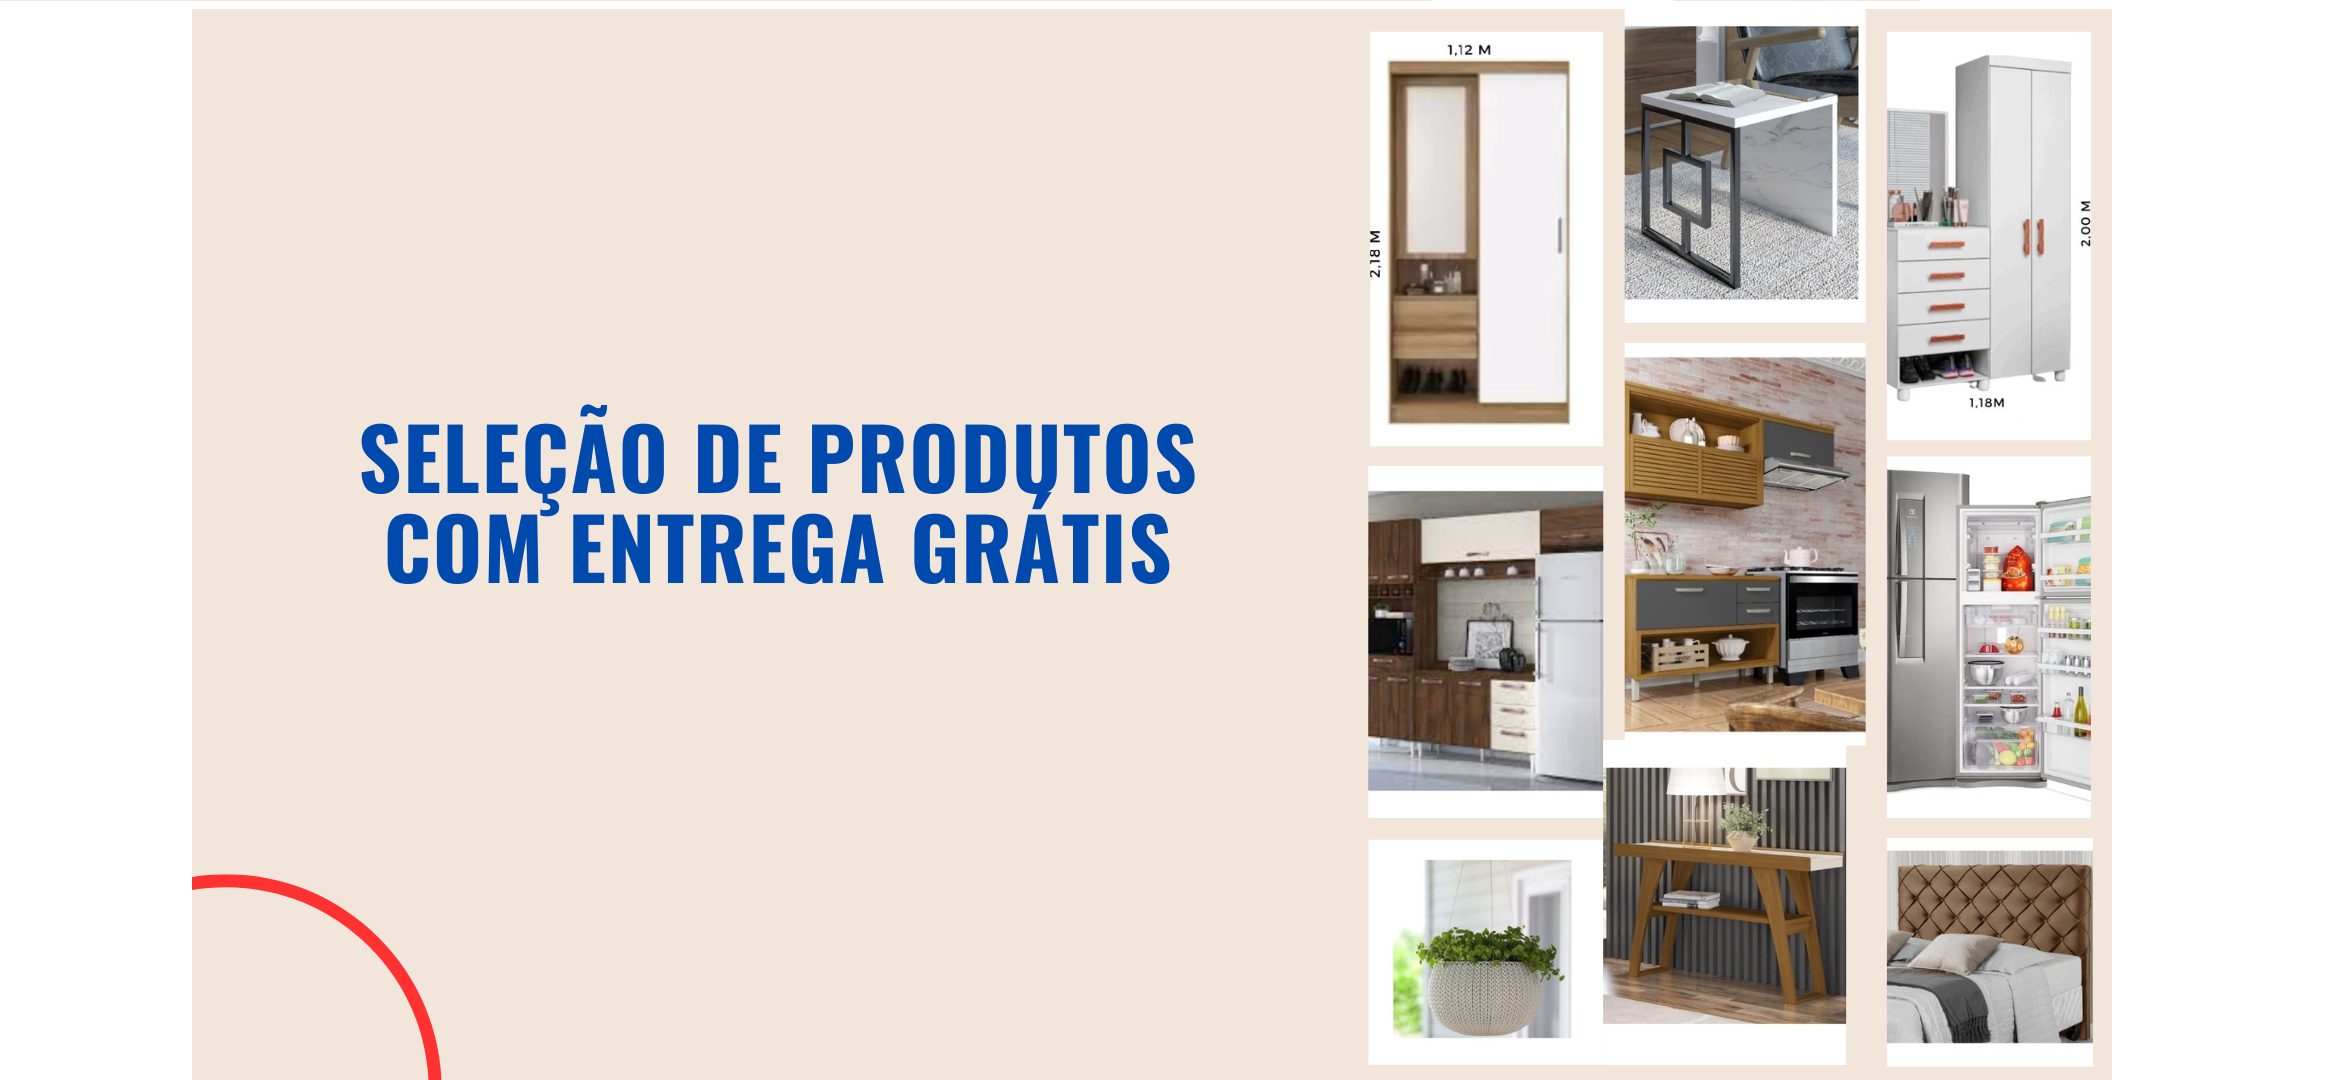
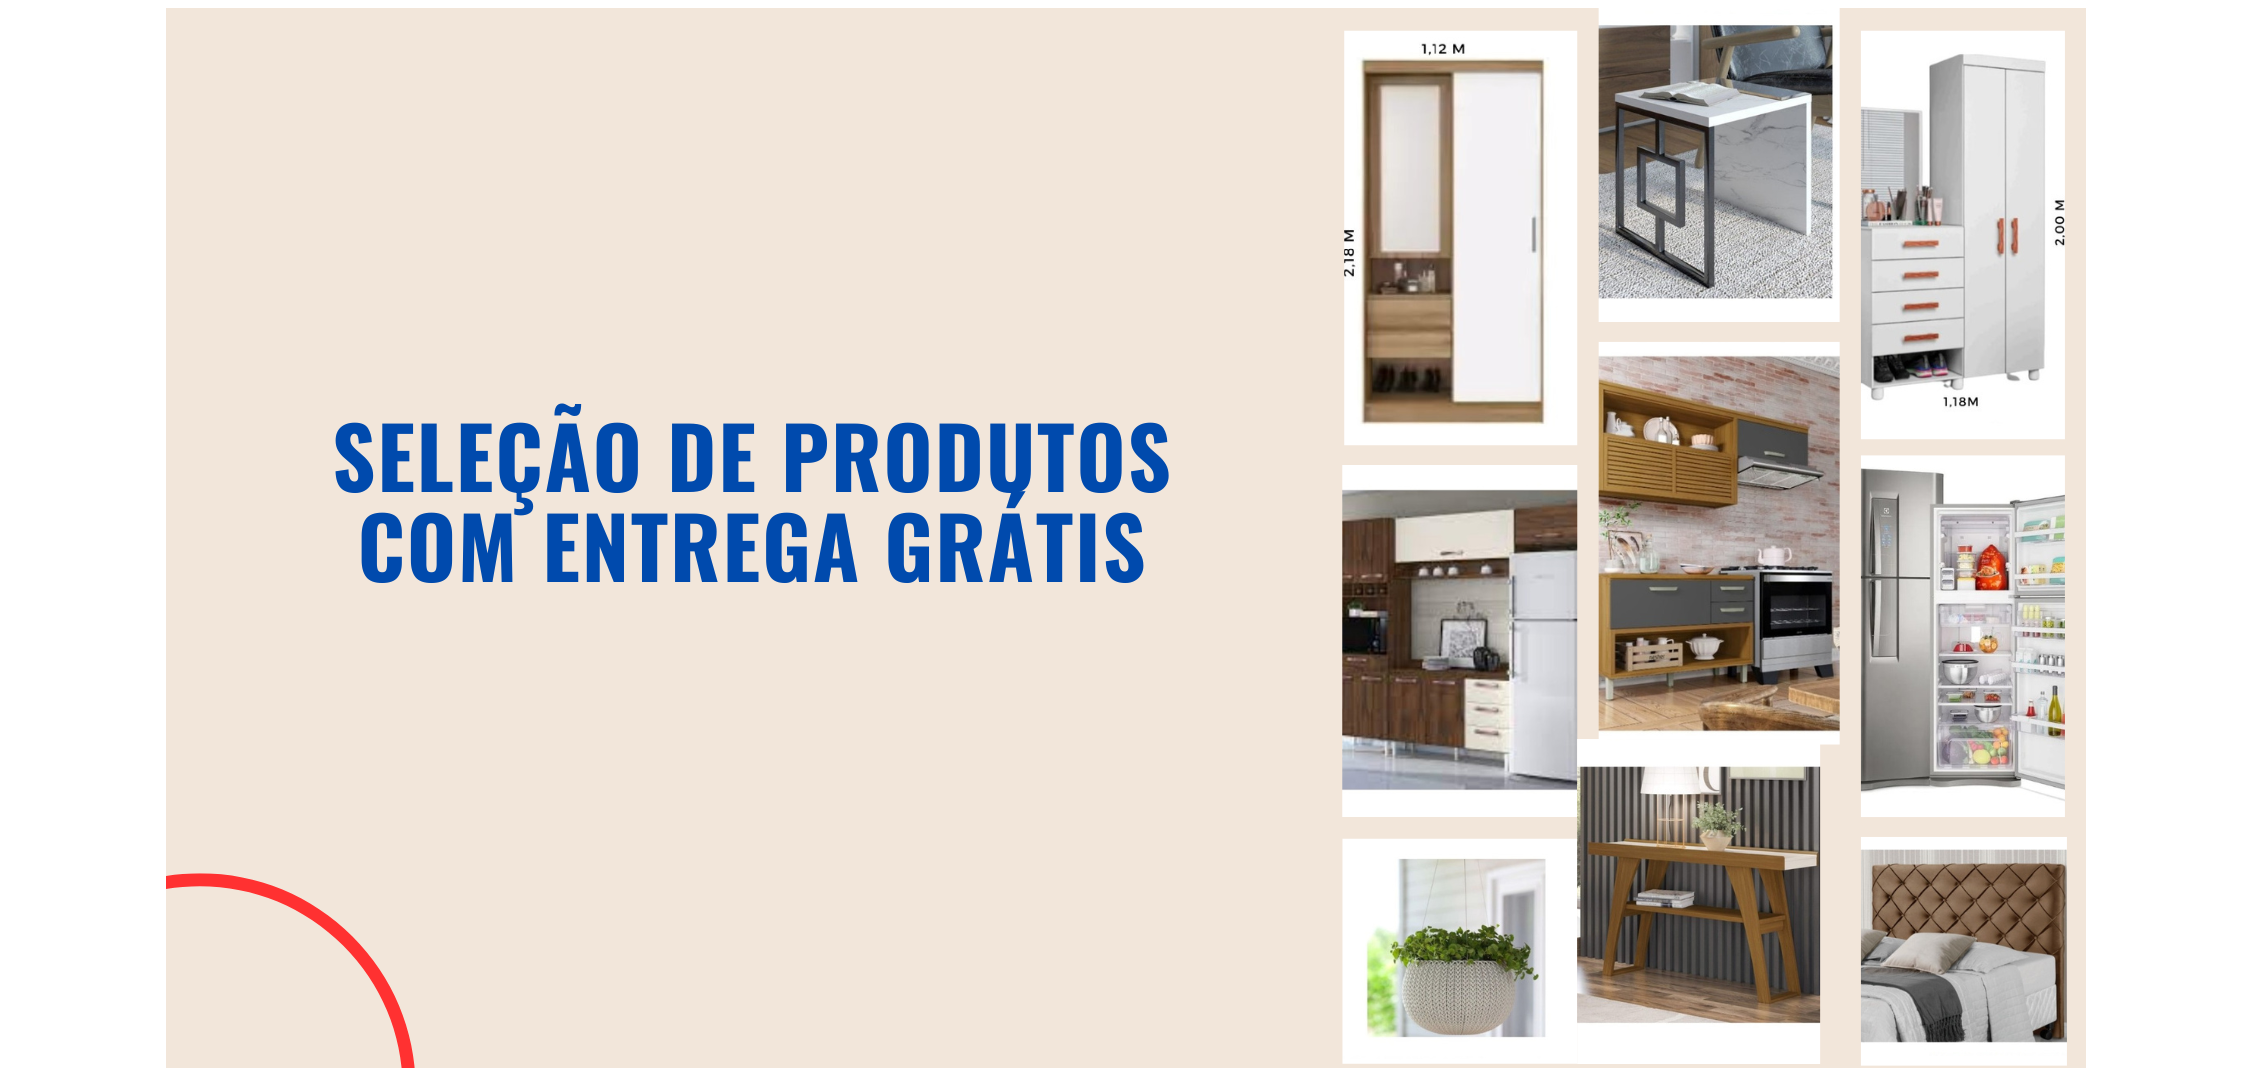
slides novos

Changed region(s): [[0.5575, 0.0, 0.9292, 1.0], [0.1239, 0.3708, 0.5265, 0.5562], [0.0619, 0.0, 0.1858, 1.0]]

diff --git a/index.html b/index.html
@@ -33,27 +33,64 @@
       </div>
     </div>
 
-    <input type="radio" class="slide-controller" name="slide" checked />
-    <input type="radio" class="slide-controller" name="slide" />
-    <input type="radio" class="slide-controller" name="slide" />
-    <input type="radio" class="slide-controller" name="slide" />
-
-    <div class="slide-show">
-      <ul class="slides-list">
-        <li class="slide">
-          <img class="img-slide" src="img/compra.slide.png" alt="" />
-        </li>
-        <li class="slide">
-          <img class="img-slide" src="img/slide.png" alt="" />
-        </li>
-        <li class="slide">
-          <img class="img-slide" src="img/quarto.slide.png" alt="" />
-        </li>
-        <li class="slide">
-          <img class="img-slide" src="img/eletronicos.slide.png" alt="" />
-        </li>
-      </ul>
-    </div>
+    <ul class="slides">
+      <input type="radio" name="radio-btn" id="img-1" checked />
+      <li class="slide-container">
+        <div class="slide">
+          <img src="img/quarto.slide.png" alt="" />
+        </div>
+        <div class="nav">
+          <label for="img-4" class="prev"
+            ><img src="img/back.png" alt=""
+          /></label>
+          <label for="img-2" class="next"
+            ><img class="seta" src="img/next.png" alt=""
+          /></label>
+        </div>
+      </li>
+      <input type="radio" name="radio-btn" id="img-2" />
+      <li class="slide-container">
+        <div class="slide">
+          <img src="img/eletronicos.slide.png" alt="" />
+        </div>
+        <div class="nav">
+          <label for="img-1" class="prev"
+            ><img class="seta" src="img/back.png" alt=""
+          /></label>
+          <label for="img-3" class="next"
+            ><img class="seta" src="img/next.png" alt=""
+          /></label>
+        </div>
+      </li>
+      <input type="radio" name="radio-btn" id="img-3" />
+      <li class="slide-container">
+        <div class="slide">
+          <img src="img/compra.slide.png" alt="" />
+        </div>
+        <div class="nav">
+          <label for="img-2" class="prev"
+            ><img class="seta" src="img/back.png" alt=""
+          /></label>
+          <label for="img-4" class="next"
+            ><img class="seta" src="img/next.png" alt=""
+          /></label>
+        </div>
+      </li>
+      <input type="radio" name="radio-btn" id="img-4" />
+      <li class="slide-container">
+        <div class="slide">
+          <img src="img/slide.png" alt="" />
+        </div>
+        <div class="nav">
+          <label for="img-3" class="prev"
+            ><img class="seta" src="img/back.png" alt=""
+          /></label>
+          <label for="img-1" class="next"
+            ><img class="seta" src="img/next.png" alt=""
+          /></label>
+        </div>
+      </li>
+    </ul>
     <div class="icon-peças">
       <ul>
         <li class="section">
@@ -123,7 +160,11 @@
       <div class="line-1">
         <div class="box-ven">
           <img class="box-peças" src="img/eletrodomestico/agille.jpeg" alt="" />
+          <hr />
+          <hr />
           <p>Fogão 5 Bcs Agile</p>
+          <hr />
+          <hr />
         </div>
         <div class="box-ven">
           <img
@@ -131,11 +172,19 @@
             src="img/eletrodomestico/eletrolux df44.jpeg"
             alt=""
           />
+          <hr />
+          <hr />
           <p>Frost Free Eletrolux 402L</p>
+          <hr />
+          <hr />
         </div>
         <div class="box-ven">
           <img class="box-peças" src="img/quarto/roupeiro.glass1.png" alt="" />
+          <hr />
+          <hr />
           <p>Roupeiro Glass 1.9</p>
+          <hr />
+          <hr />
         </div>
         <div class="box-ven">
           <img
@@ -143,11 +192,19 @@
             src="img/eletronico/smart-tv-tcl-android-led-43-.jpg"
             alt=""
           />
+          <hr />
+          <hr />
           <p>TV TCL 43p Android</p>
+          <hr />
+          <hr />
         </div>
         <div class="box-ven">
           <img class="box-peças" src="img/diversos/lotus.jpeg" alt="" />
+          <hr />
+          <hr />
           <p>Bicicleta Lotus Aro 29</p>
+          <hr />
+          <hr />
         </div>
       </div>
     </div>
@@ -162,19 +219,19 @@
 
       <div class="slide-show">
         <ul class="slides-list">
-          <li class="slide">
+          <li class="slidess">
             <img class="box" src="img/quarto/roupeiro reflex.jpeg" alt="" />
             <img class="box" src="img/quarto/comoda pegasus.jpeg" alt="" />
             <img class="box" src="img/quarto/roupeiro apollo.jpeg" alt="" />
             <a href="quarto.html"><h3>Veja mais - Quarto</h3></a>
           </li>
-          <li class="slide">
+          <li class="slidess">
             <img class="box" src="img/sala/home buzio.jpeg" alt="" />
             <img class="box" src="img/sala/bancada ubatuba.jpeg" alt="" />
             <img class="box" src="img/sala/aarador rivieira.jpeg" alt="" />
             <a href="sala.html"><h3>Veja mais - Sala</h3></a>
           </li>
-          <li class="slide">
+          <li class="slidess">
             <img class="box" src="img/cozinha/buffet copacabana.jpeg" alt="" />
             <img
               class="box"
@@ -184,7 +241,7 @@
             <img class="box" src="img/cozinha/buffet vitoria.jpeg" alt="" />
             <a href="cozinha.html"><h3>Veja mais - Cozinha</h3></a>
           </li>
-          <li class="slide">
+          <li class="slidess">
             <img
               class="box"
               src="img/diversos/bicicleta atalanta.jpeg"

diff --git a/css/style.css b/css/style.css
@@ -21,6 +21,7 @@ body {
   color: aliceblue;
   background-color: #004aad;
   text-align: left;
+  margin-bottom: 20px;
 }
 .topo a {
   text-decoration: none;
@@ -38,6 +39,70 @@ body {
 }
 .figure-logo {
   width: 130%;
+}
+.slides {
+  padding: 0;
+  width: 1200px;
+  height: 500px;
+  display: block;
+  margin: 0 auto;
+  position: relative;
+}
+.slides * {
+  user-select: none;
+  -ms-user-select: none;
+  -moz-user-select: none;
+}
+.slides input {
+  display: none;
+}
+.slide-container {
+  display: block;
+}
+.slide {
+  top: 0;
+  opacity: 0;
+  width: 1200px;
+  height: 500px;
+  position: absolute;
+  display: block;
+  transform: scale(1);
+  transition: all 0.7s ease-in-out;
+}
+.slide img {
+  width: 100%;
+  height: 100%;
+}
+.nav label {
+  width: 200px;
+  height: 100%;
+  display: none;
+  position: absolute;
+  opacity: 0;
+  z-index: 9;
+  cursor: pointer;
+  transition: opacity 0.2s;
+  background-color: rgba(7, 7, 7, 0.24);
+}
+.slide:hover + .nav label {
+  opacity: 0.5s;
+}
+.nav label:hover {
+  opacity: 1;
+}
+.nav .next {
+  right: 0;
+}
+input:checked + .slide-container .slide {
+  opacity: 1;
+  transform: scale(1);
+  transition: opacity 1s ease-in-out;
+}
+input:checked + .slide-container .nav label {
+  display: block;
+}
+.seta {
+  width: 30px;
 }
 
 .slide-controller:nth-child(1):checked ~ .slide-show .slides-list {
@@ -72,12 +137,8 @@ body {
   grid-auto-flow: column;
   grid-auto-columns: 1fr;
 }
-.img-slide {
-  box-sizing: border-box;
-  max-width: 80%;
-  border-radius: 20px;
-}
-.slide h3 {
+
+.slidess h3 {
   text-align: end;
   margin-right: 50px;
 }
@@ -86,6 +147,7 @@ body {
   font-size: 0.9em;
   background-color: #eeeee7;
   padding: 10px;
+  margin-top: 20px;
 }
 .section {
   text-align: center;
@@ -158,9 +220,6 @@ hr {
 }
 .icon-midia {
   max-width: 35px;
-}
-.seta {
-  margin-top: 50px;
 }
 .text-ent {
   padding-left: 0px;
@@ -238,6 +297,14 @@ hr {
   .box1 {
     margin-left: 0px;
     font-size: 0.8em;
+  }
+  .slide {
+    max-width: 100%;
+    height: auto;
+  }
+  .slides {
+    width: auto;
+    height: 200px;
   }
   .icon-peças ul {
     padding-inline-start: 0px;
